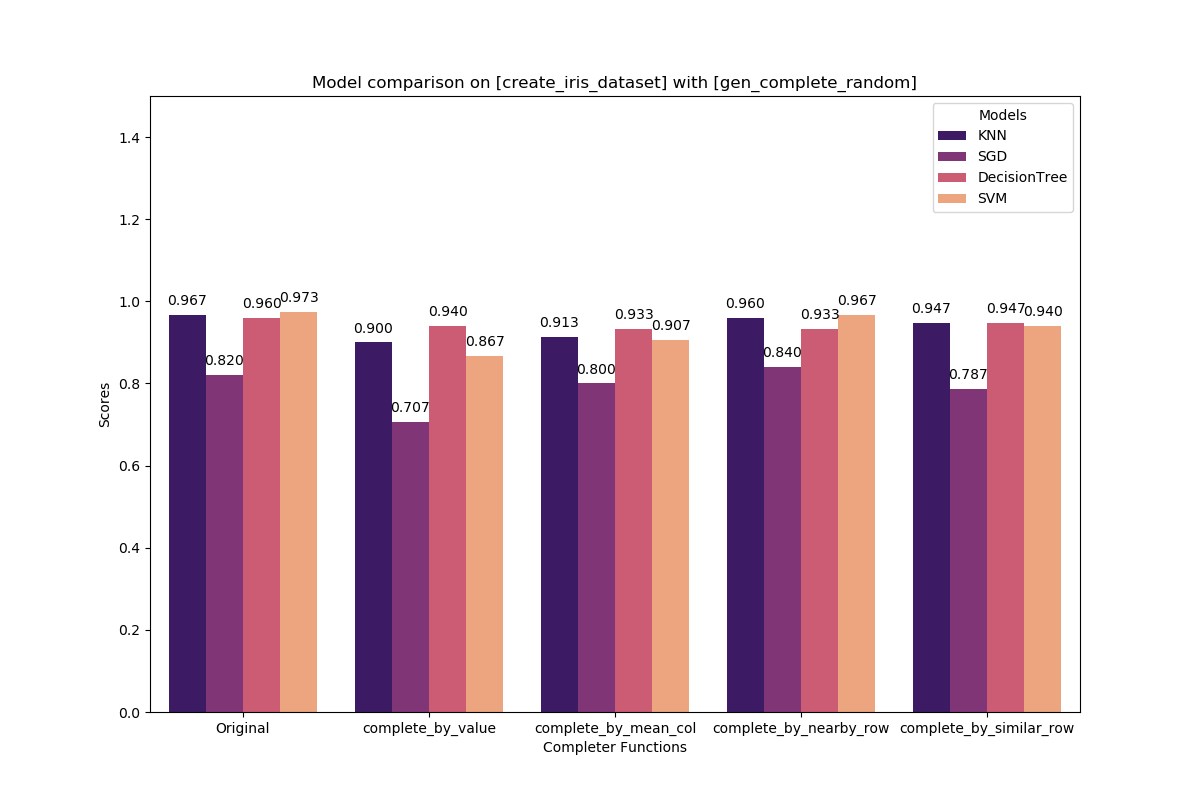
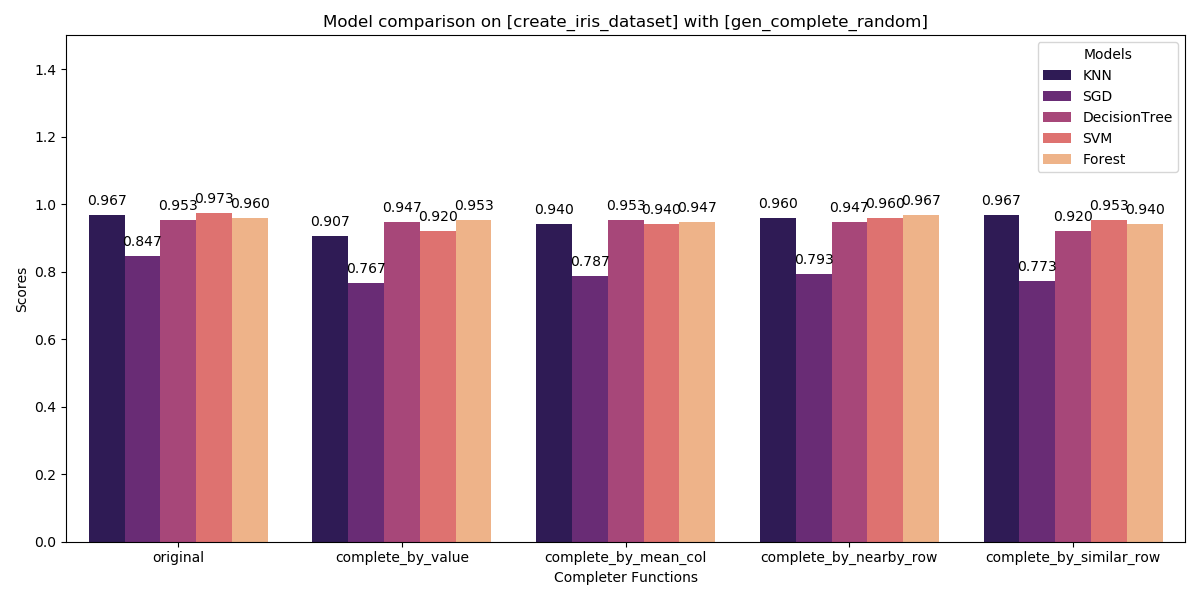
add random forest

diff --git a/main.py b/main.py
@@ -19,13 +19,13 @@ class TestMachine:
                            complete_by_mean_col,
                            complete_by_nearby_row,
                            complete_by_similar_row] if complete_func == [] else complete_func
-        self.models = [KNN, SGD, DecisionTree, SVM] if model_func == [] else model_func
+        self.models = [KNN, SGD, DecisionTree, SVM, Forest] if model_func == [] else model_func
         self.predictor_cv = predictor_cv
     
     def run(self):
         scores = []
         for model in self.models:
-            scores.append(["Original", model.__name__, model(self.original_data, self.predictor_cv)])
+            scores.append(["original", model.__name__, model(self.original_data, self.predictor_cv)])
         for completer in self.completers:
             completed_data = completer(self.missing_data)
             for model in self.models:
@@ -34,24 +34,26 @@ class TestMachine:
         self.scores = pd.DataFrame(data=scores, columns=["Completer Functions", "Models", "Scores"], index=None)
         print(self.scores.to_string())
 
-    def plot_compare_models(self, size=(12, 8), save_file_name=None):
+    def plot_compare_models(self, size=(12, 6), save_file_name=None):
         plt.figure(figsize=size)
         plt.title("Model comparison on [{0}] with [{1}]".format(self.data_func_name, self.random_func_name))
         ax = sns.barplot(x=self.scores["Completer Functions"], y=self.scores["Scores"], hue="Models", data=self.scores, palette="magma")
         for p in ax.patches:
             ax.annotate(format(p.get_height(), ".3f"), (p.get_x() + p.get_width() / 2, p.get_height()), ha="center", va="center", xytext=(0, 10), textcoords="offset points")
         plt.ylim([0.0, 1.5])
+        plt.tight_layout()
         if save_file_name is not None:
             plt.savefig(save_file_name)
         plt.show()
     
-    def plot_compare_completers(self, size=(12, 8), save_file_name=None):
+    def plot_compare_completers(self, size=(12, 6), save_file_name=None):
         plt.figure(figsize=size)
         plt.title("Completer comparison on [{0}] with [{1}]".format(self.data_func_name, self.random_func_name))
         ax = sns.barplot(x=self.scores["Models"], y=self.scores["Scores"], hue="Completer Functions", data=self.scores, palette="magma")
         for p in ax.patches:
             ax.annotate(format(p.get_height(), ".3f"), (p.get_x() + p.get_width() / 2, p.get_height()), ha="center", va="center", xytext=(0, 10), textcoords="offset points")
         plt.ylim([0.0, 1.5])
+        plt.tight_layout()
         if save_file_name is not None:
             plt.savefig(save_file_name)
         plt.show()

diff --git a/utils/predictor.py b/utils/predictor.py
@@ -28,3 +28,9 @@ def SVM(data, cv):
     svm = SVC()
     score = cross_val_score(svm, data.X, data.y, cv=cv)
     return score.mean()
+
+# Method 5: Random Forest
+def Forest(data, cv):
+    forest = RandomForestClassifier()
+    score = cross_val_score(forest, data.X, data.y, cv=cv)
+    return score.mean()

diff --git a/utils/model_header.py b/utils/model_header.py
@@ -4,4 +4,5 @@ from sklearn.model_selection import cross_val_score
 from sklearn.neighbors import KNeighborsClassifier
 from sklearn.linear_model import SGDClassifier
 from sklearn.tree import DecisionTreeClassifier
+from sklearn.ensemble import RandomForestClassifier
 from sklearn.svm import SVC
